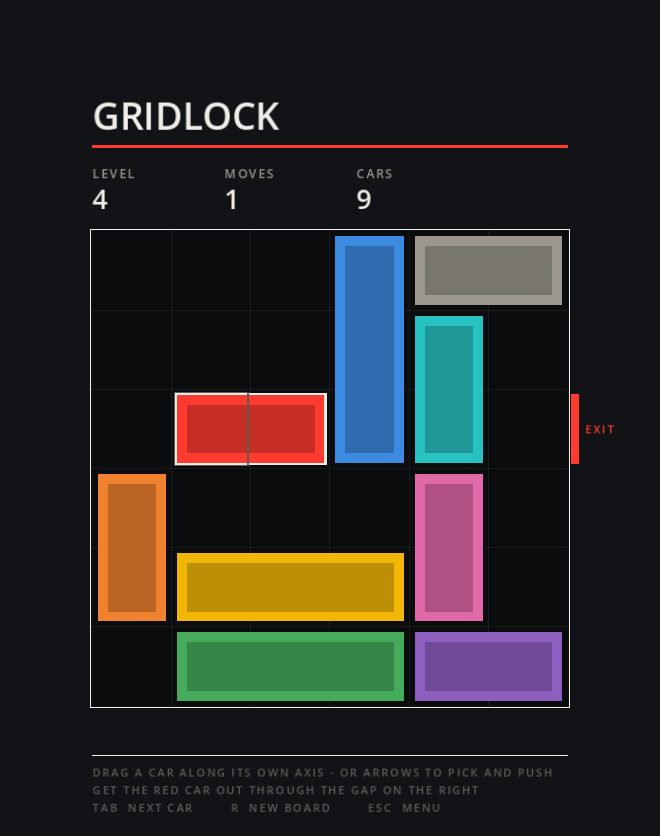
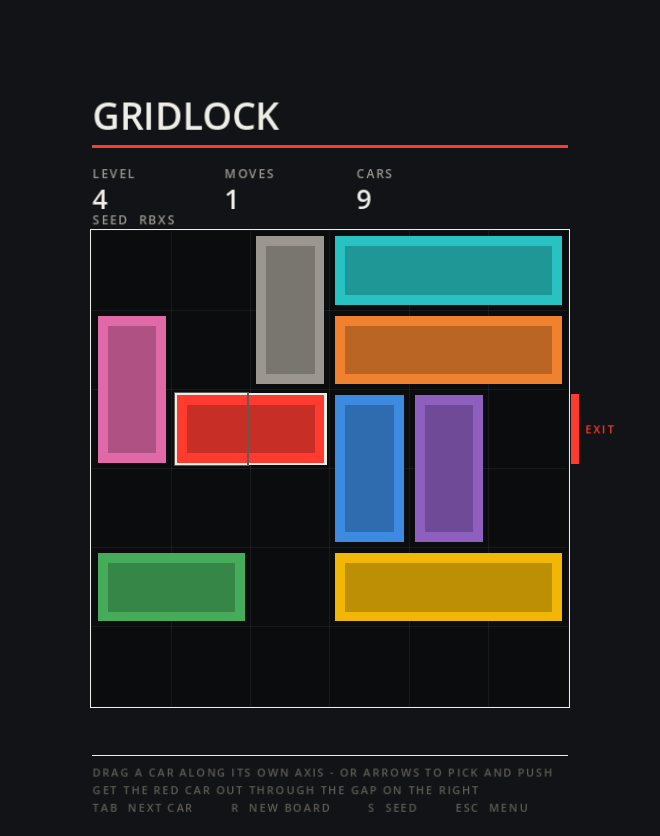
Seed the generated games so boards can be shared
Every generator draws from the global RNG, so seeding it immediately before
generating is enough to make a board repeatable without threading an RNG
through each one. A run has one base seed; each level mixes it with the game
name and level number, so two games on the same seed still differ.

The base defaults to a seed derived from the date, so everyone gets the same
board on a given day, and S types a code to play someone else. Codes are four
characters from an alphabet with no I, O, 0 or 1, so they survive being read
out loud.

Seeds carry a version, because a seed only means the same thing while the
generator is unchanged - altering how a game builds boards has to visibly
invalidate old codes rather than silently deal different ones.

Tests cover the round trip, that games and levels do not collide, and that
for all five games one seed deals one board and two seeds deal different
ones.

One Linkup test had been relying on the unseeded board: with a fixed seed its
chosen route was three cells, where the second step reaches the far dot and
completes the pair. It now picks the longest route.

Claude-Session: https://claude.ai/code/session_01C2pE9wEjZ3xo495E6yrVY8

diff --git a/README.md b/README.md
@@ -12,6 +12,10 @@ task --list     # everything else
 
 Press `F` for fullscreen, `Esc` to return to the menu from any game.
 
+**Seeds.** Fence, Linkup, Shapes, Gridlock and Decant all show a four-character
+seed. Everyone gets the same one each day, so you can compare scores on the same
+board — press `S` to type someone else's and play theirs instead.
+
 <img src="docs/menu.png" alt="Snackbox menu" width="300">
 
 ## Blockfall
